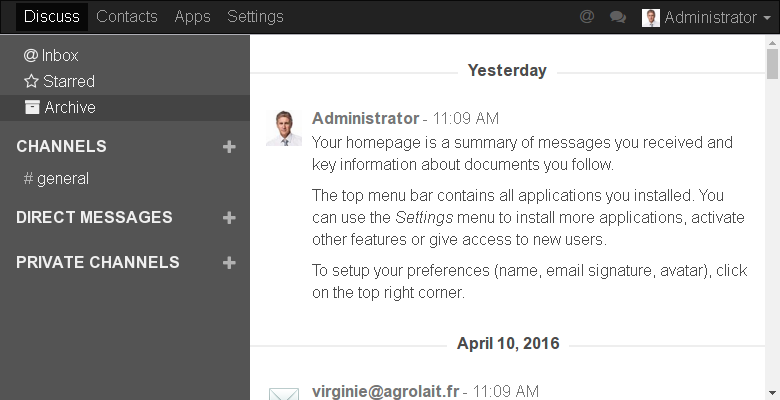
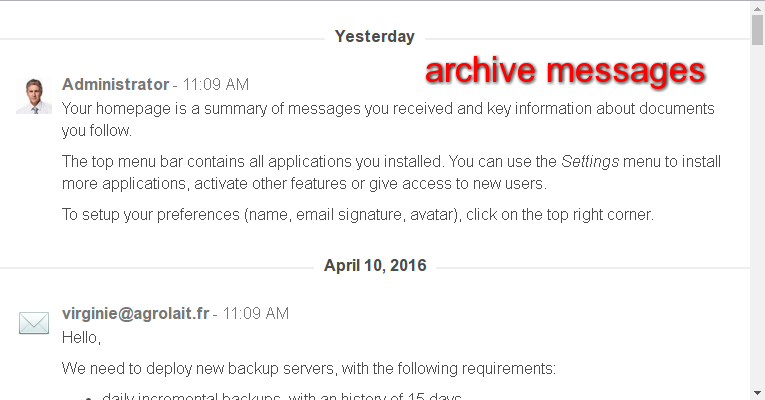
[IMP] another screenshots

diff --git a/mail_archives/static/description/index.html b/mail_archives/static/description/index.html
@@ -3,8 +3,43 @@
         <div class="oe_span12">
             <h2 class="oe_slogan">Look up old mails</h2>
             <h3 class="oe_slogan">Browse archived mails like in odoo 8</h3>
+        </div>
+        <div class="oe_span6">
+            <div class="oe_row_img oe_centered">
                 <img class="oe_picture oe_screenshot" src="1.png"/>
-            <img class="oe_picture oe_screenshot" src="2.png"/>
+            </div>
+        </div>
+        <div class="oe_span6">
+            <p class="oe_mt32">
+                The module adds usual menu.
+            </p>
+        </div>
+    </div>
+</section>
+
+<section class="oe_container oe_dark">
+    <div class="oe_row oe_spaced">
+        <div class="oe_span12">
+            <p class="oe_mt32">
+This menu shows archive messages in threads.
+            </p>
+        </div>
+            <div class="oe_row_img oe_centered">
+                <img class="oe_picture oe_screenshot" src="2.png"/>
+            </div>
+    </div>
+</section>
+
+<section class="oe_container">
+    <div class="oe_row oe_spaced">
+        <div class="oe_span12">
+            <h2>Need our service?</h2>
+            <p class="oe_mt32">Contact us by <a href="mailto:it@it-projects.info">email</a> or fill out <a href="https://www.it-projects.info/page/website.contactus " target="_blank">request form</a></p>
+            <ul>
+                <li><a href="mailto:it@it-projects.info">it@it-projects.info <i class="fa fa-envelope-o"></i></a></li>
+                <li><a href="https://www.it-projects.info/page/website.contactus " target="_blank">
+https://www.it-projects.info/page/website.contactus <i class="fa fa-list-alt"></i></a></li>
+            </ul>
         </div>
     </div>
 </section>
